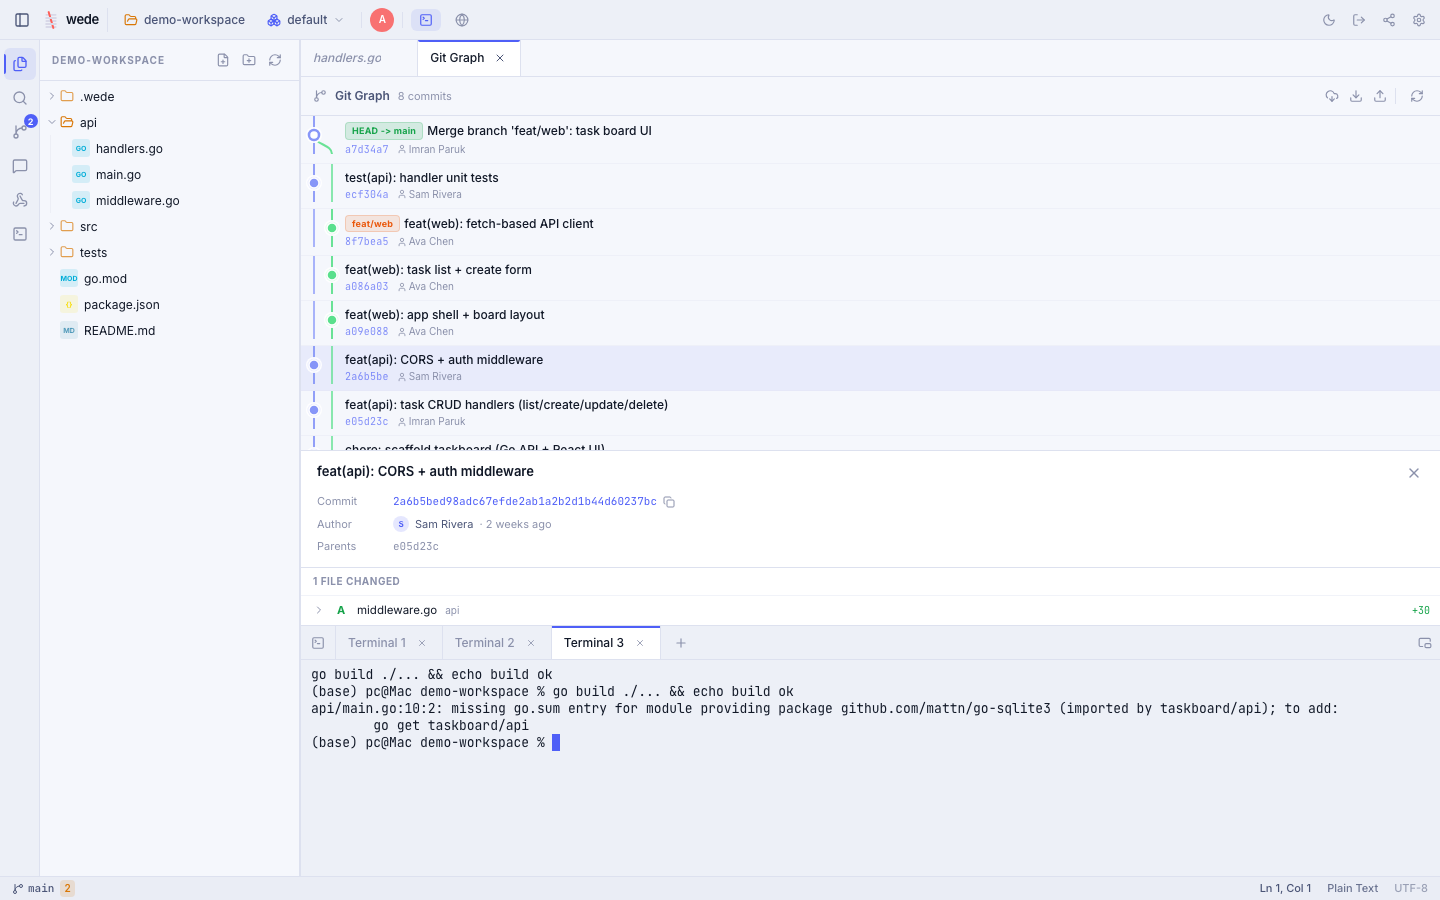
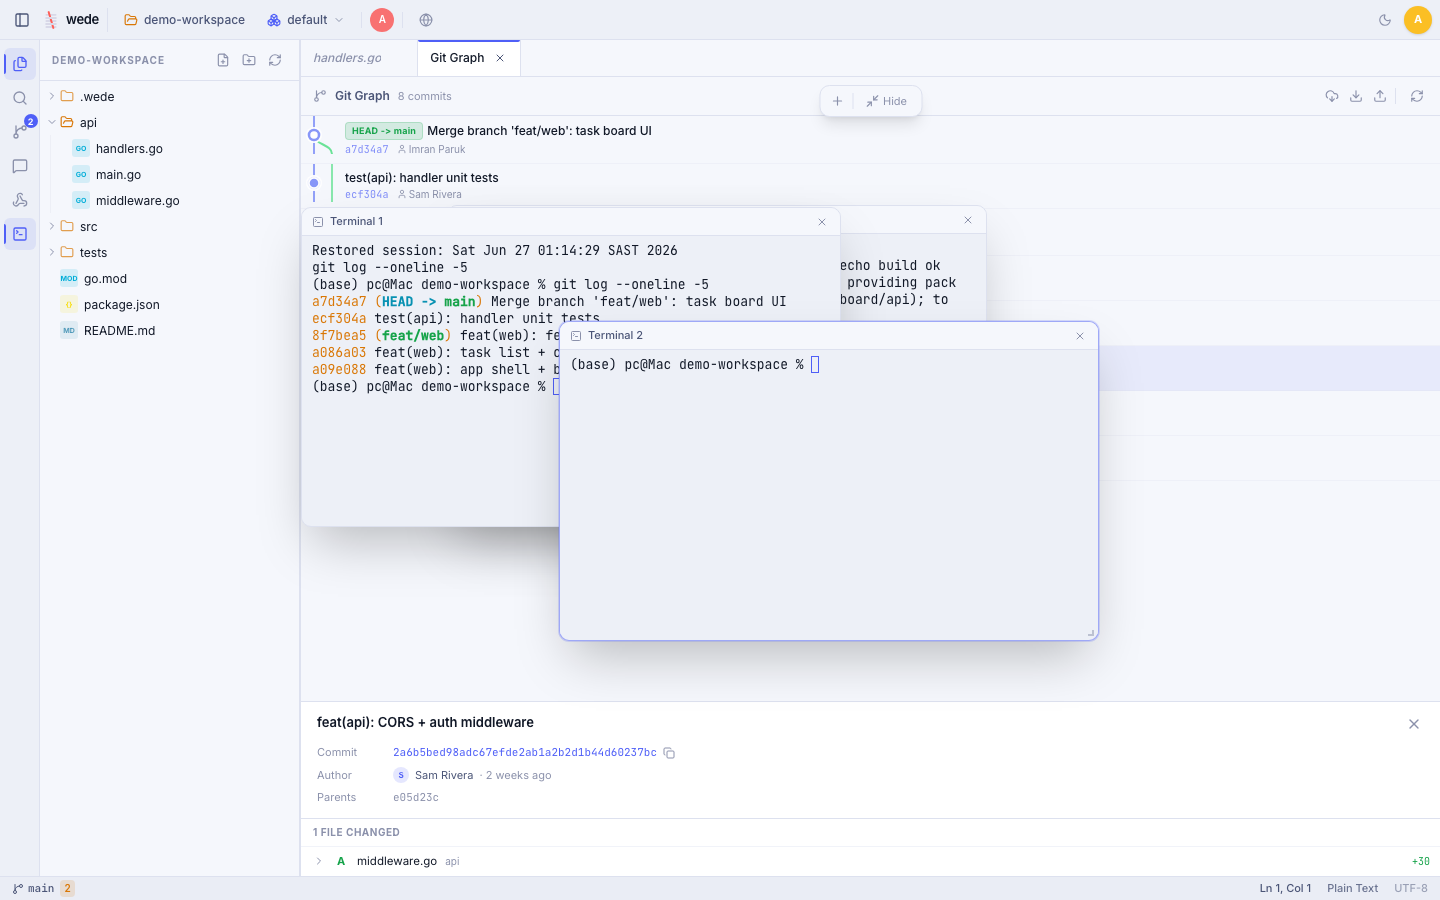
docs: refresh screenshots for floating terminals + add windows-mode shot
Rework the screenshotter's terminal steps for the floating-only model (open from
the activity rail, spread the windows, run commands) and regenerate the full
gallery. Add a dedicated 'terminals — windows mode' screenshot to the README and
SCREENSHOTS docs.

diff --git a/docs/SCREENSHOTS.md b/docs/SCREENSHOTS.md
@@ -68,8 +68,16 @@ across the Go source files. Supports regex, case-toggle, and replace-across-file
 
 ![Terminal](screenshots/terminal.png)
 
-Full PTY terminal panel with multiple tabs. The capture shows `git log --oneline`
+Full PTY terminals opened from the activity rail. The capture shows `git log --oneline`
 output inside the demo workspace.
+
+### Terminals — windows mode
+
+![Floating terminal windows](screenshots/terminals_floating.png)
+
+Each terminal can be a movable, resizable window floating over the editor. They're
+the same server-side PTY sessions, and in a shared workspace a window's position
+syncs to every collaborator.
 
 ---
 
@@ -150,7 +158,8 @@ skipped and that instance is used instead.
 | `git.png` | Git panel — Changes tab | Unstaged diff in `api/middleware.go` |
 | `git_graph.png` | Git panel — History | Two-commit SVG graph |
 | `search.png` | Search panel (`Ctrl+Shift+F`) | Query `handleCreate`, real hits |
-| `terminal.png` | Terminal panel | `git log --oneline` output |
+| `terminal.png` | Terminals (floating) | `git log --oneline` output |
+| `terminals_floating.png` | Terminals — windows mode | Three movable terminal windows over the editor |
 | `settings.png` | Settings panel | Editor preferences |
 | `command_palette.png` | Command palette (`Ctrl+Shift+P`) | Filtered to `git` |
 

diff --git a/README.md b/README.md
@@ -45,7 +45,7 @@ One host serves many people: open multiple projects as **workspaces**, invite ot
 <td><img src="docs/screenshots/apiclient.png" alt="wede built-in Postman-style API client" width="400"><br><em>Built-in API client (Postman-style)</em></td>
 </tr>
 <tr>
-<td><img src="docs/screenshots/terminals.png" alt="wede multiple terminals per workspace" width="400"><br><em>Multiple terminals per workspace</em></td>
+<td><img src="docs/screenshots/terminals_floating.png" alt="wede movable floating terminal windows" width="400"><br><em>Terminals as movable windows (synced across collaborators)</em></td>
 <td><img src="docs/screenshots/chat.png" alt="wede live workspace chat with public and private channels" width="400"><br><em>Live chat — public &amp; private channels</em></td>
 </tr>
 <tr>
